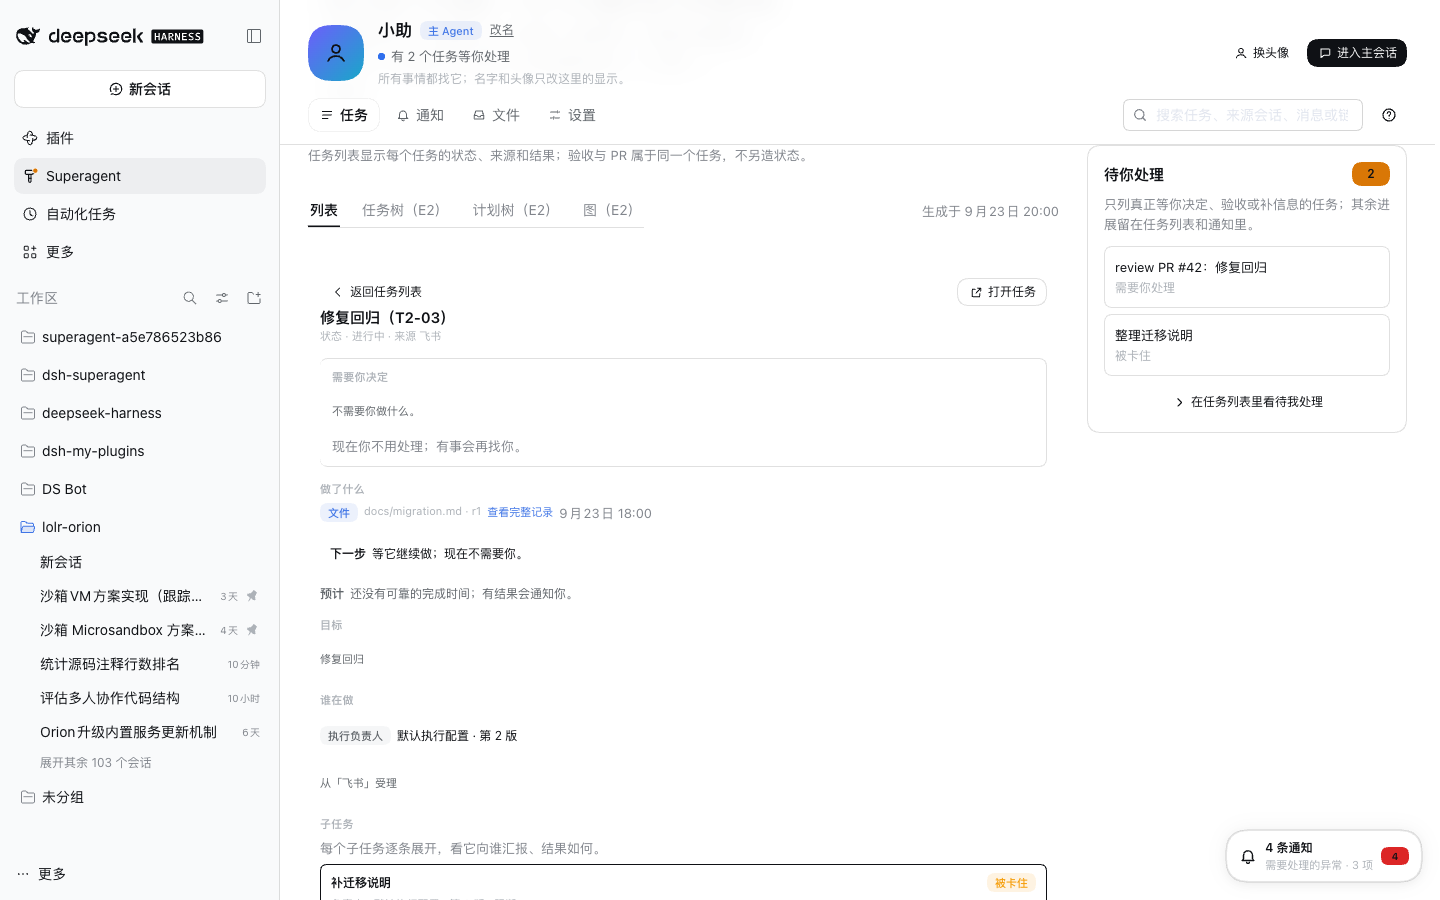
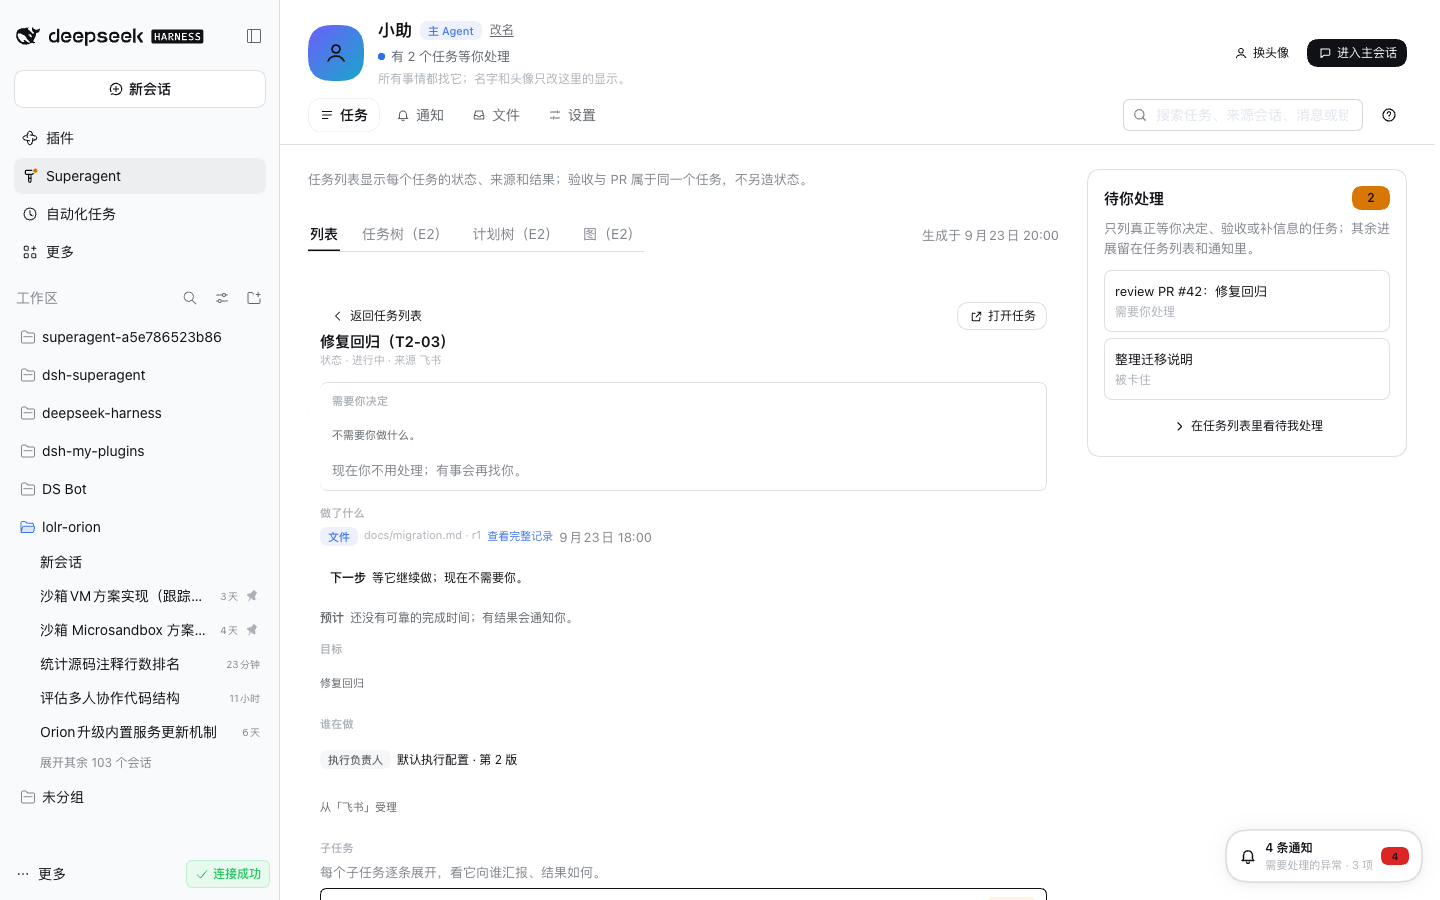
fix(ui): keep the shell focused on the task at hand
Place the waiting summary beside the task content, hide the first-use note while a detail is open, return the panel to the top when opening a detail or the waiting filter, leave a detail when the view changes, and leave clearance for the floating notice entry.

diff --git a/packages/dsh/src/client/tasks.tsx b/packages/dsh/src/client/tasks.tsx
@@ -489,11 +489,13 @@ export function TasksPage({ tasks }: { tasks?: TasksViewClient } = {}): ReactNod
   const selectRoot = (ticket: string) => store.select(selected === ticket ? undefined : { kind: 'ticket', id: ticket, rootId: ticket })
   const selectChild = (root: string, ticket: string) => store.select(selected === ticket ? undefined
     : { kind: 'ticket', id: ticket, rootId: root } satisfies TaskSelection)
+  const scrollToTop = () => { const scroller = document.querySelector<HTMLElement>('.dt-page'); if (scroller) scroller.scrollTop = 0 }
   const openDetail = (ticket: string) => {
     const root = data?.tasks.find(item => item.id === ticket)?.id ?? rootId ?? ticket
     store.select({ kind: 'ticket', id: ticket, rootId: root })
     store.ensureDetail(ticket)
     setDetailId(ticket)
+    scrollToTop()
   }
   const detailTask = detailId ? store.taskOf(detailId) : undefined
   if (!data) return <LoadState error={snapshot.error} loading={!snapshot.ready || snapshot.loading} />
@@ -501,14 +503,15 @@ export function TasksPage({ tasks }: { tasks?: TasksViewClient } = {}): ReactNod
     {snapshot.error && <LoadState error={snapshot.error} loading={false} />}
     {!shell && masterCard() && <MasterCard masterId={state?.masterId} paused={!!state?.paused} running={state?.load.running ?? 0}
       attention={data.tasks.filter(task => task.attention).length} onOpen={openSession} />}
-    <FirstUseNotes />
+    {!shell && <FirstUseNotes />}
     <div className={shell ? 'dt-tasks-layout' : 'dt-tasks-flow'}>
       <div className="dt-tasks-primary">
+        {shell && !detailId && <FirstUseNotes />}
         <p className="dt-hint dt-task-intro">{view === 'list' ? t('tasksListIntro')
           : view === 'tickets' ? t('tasksTicketsIntro') : t('tasksIntro')}</p>
         {view !== 'list' && view !== 'tickets' && <Hint>{t('tasksPlanFallback')}</Hint>}
         <div className="dt-task-views">
-          <SegmentedTabs label={t('tasksViewLabel')} value={view} onChange={value => setView(value)}
+          <SegmentedTabs label={t('tasksViewLabel')} value={view} onChange={value => { setView(value); setDetailId(undefined) }}
             items={views.map(value => ({ value, label: t(`tasksView.${value}`), id: `${id}-${value}`, panelId: `${id}-panel` }))} />
           <span className="dt-hint">{t('tasksGenerated', { time: when(data.generatedAt, t('lang')) })}</span>
         </div>
@@ -530,7 +533,7 @@ export function TasksPage({ tasks }: { tasks?: TasksViewClient } = {}): ReactNod
       {shell && <aside className="dt-tasks-aside">
         <AttentionSummary tasks={data.tasks} onOpen={ticket => { if (hierarchy) openDetail(ticket)
           else navigate({ page: 'execution', id: ticket }) }} onShowAll={() => {
-          setView('list'); setDetailId(undefined); setFilter('attention')
+          setView('list'); setDetailId(undefined); setFilter('attention'); scrollToTop()
         }} />
       </aside>}
     </div>

diff --git a/packages/dsh/src/client/locales.ts b/packages/dsh/src/client/locales.ts
@@ -509,7 +509,7 @@ const TEXT = {
   filesOpen: ['打开', 'Open'],
   navFourSection: ['四项主导航', 'Four-entry navigation'],
   navFourSetting: ['使用「任务 / 通知 / 文件 / 设置」四项', 'Use Tasks / Notices / Files / Settings'],
-  navFourHint: ['插件面板内只留四项一级入口；概览收进任务与设置，右栏重复的事件/任务标签也收起。宿主自己的「新建会话」「插件」行和工作区区域不归插件控制，仍然存在（见 026 的限制清单）。刷新后生效。',
+  navFourHint: ['插件面板内只留四项一级入口；概览收进任务与设置，右栏重复的事件/任务标签也收起。宿主自己的「新会话」「插件」行和工作区区域不归插件控制，仍然存在（见 026 的限制清单）。刷新后生效。',
     'The plugin panel keeps four first-level entries; Overview folds into Tasks and Settings, and the duplicate Events/Tasks right tabs are removed. The host\'s own New Session, Plugins and workspace rows are outside plugin control and remain (see the limit list in doc 026). Takes effect after refresh.'],
   navFourDisabled: ['这个部署已关闭四项导航；概览、任务、设置和原有右栏标签保持原样。', 'This deployment disabled the four-entry navigation; Overview, Tasks, Settings and the right tabs stay as before.'],
   appShellSection: ['插件即主页面', 'Plugin as the main page'],

diff --git a/packages/dsh/src/client/client.css b/packages/dsh/src/client/client.css
@@ -705,7 +705,7 @@ a.dt-btn, a.dt-btn:hover { text-decoration: none; }
 .dt-page .dt-app-tabs .dt-tab:focus-visible { outline: 2px solid var(--dsw-alias-brand-primary); outline-offset: 2px; }
 .dt-shell-tools { display: flex; flex: 1 1 auto; justify-content: flex-end; min-width: 0; }
 .dt-shell-tools .dt-search { width: 240px; }
-.dt-app-main { box-sizing: border-box; flex: 1 1 auto; width: 100%; min-width: 0; padding: 24px 28px 56px; }
+.dt-app-main { box-sizing: border-box; flex: 1 1 auto; width: 100%; min-width: 0; padding: 24px 28px 96px; }
 .dt-app-main > .dt-main { max-width: none; }
 /* Tasks destination: the list keeps the reading width while the waiting-on-you summary uses the second column. */
 .dt-tasks-layout { display: grid; grid-template-columns: minmax(0, 1fr) 320px; gap: 28px; align-items: start; }
@@ -729,7 +729,7 @@ a.dt-btn, a.dt-btn:hover { text-decoration: none; }
 @media (max-width: 720px) {
 .dt-page.dt-app-shell .dt-master-card { padding: 14px 16px 8px; }
 .dt-app-navrow { padding: 0 16px 10px; }
-.dt-app-main { padding: 16px 16px 48px; }
+.dt-app-main { padding: 16px 16px 96px; }
 .dt-shell-tools .dt-search { width: 100%; }
 }
 

diff --git a/tests/panel-ux-app-shell.spec.tsx b/tests/panel-ux-app-shell.spec.tsx
@@ -54,6 +54,9 @@ it('keeps one main-Session action across entries and task detail', async () => {
   expect(document.querySelector('.dt-task-detail')).not.toBeNull()
   expect(document.querySelector('.dt-app-shell')).not.toBeNull()
   expect(labels().filter(label => label === zh.masterOpen)).toHaveLength(1)
+  // Changing the task view leaves the detail and returns to the chosen view.
+  await click(zh['tasksView.tree'])
+  expect(document.querySelector('.dt-task-detail')).toBeNull()
 })
 
 it('opens the waiting task from the summary and applies the existing waiting filter', async () => {

diff --git a/docs/028-plugin-main-page.zh.md b/docs/028-plugin-main-page.zh.md
@@ -55,7 +55,7 @@
 ### 3.2 默认页：任务
 
 - `ux.appShell.v1` 依赖 `ux.navFour.v1`；两者都开时，默认路由仍是任务页，不回到概览或运维页。
-- 任务主列保留列表/任务树/计划树/图、过滤器和任务详情。
+- 任务主列保留列表/任务树/计划树/图、过滤器和任务详情。打开详情会把面板滚回顶部；切换视图会退出详情并回到所选视图。
 - 右侧“待你处理”摘要只列 `GET tasks` 里 `attention` 为真的任务，最多 4 条；显示任务标题和它等待的决定类型；点一条进入任务详情（任务层级关闭时进入现有执行页），点“在任务列表里看待我处理”应用现有的“待我处理”过滤器并切回列表。
 - 摘要不是第二套收件箱：没有新 API、没有写操作，空态直接说“现在没有等你处理的事”。
 
